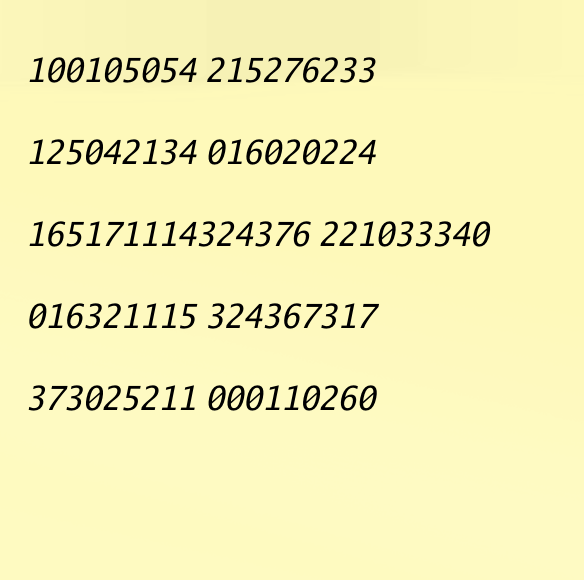
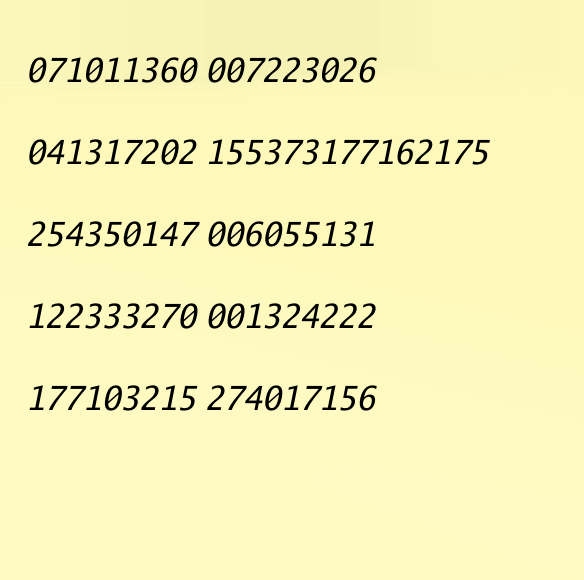
fix

diff --git a/vivant.go b/vivant.go
@@ -7,6 +7,7 @@ import (
 	"image"
 	"image/color"
 	"image/draw"
+	"math/rand"
 	"strings"
 
 	"image/png"
@@ -29,7 +30,7 @@ func (v *VivantQR) Encode() ([]string, error) {
 	HMAC.Write([]byte(vivant))
 	sig := HMAC.Sum(nil)
 	octal := bytesToOctalString(sig)
-	dummy := bytesToOctalString([]byte(genDummy(5)))
+	dummy := bytesToOctalString([]byte(string(rune(genData(5)))))
 	return separate(octal, dummy, v.cfg.Order), nil
 }
 
@@ -156,4 +157,14 @@ func separate(octal string, dummy string, order int) []string {
 		s[idx] = octal[startIndex:endIndex]
 	}
 	return s
+}
+
+func genData(num int64) int {
+	rand.New(rand.NewSource(num))
+	var res string
+	for _, v := range rand.Perm(int(num)) {
+		res += strconv.Itoa(v)
+	}
+	a, _ := strconv.Atoi(res)
+	return a
 }

diff --git a/main_test.go b/main_test.go
@@ -5,16 +5,6 @@ import (
 	"testing"
 )
 
-func Test_Decode(t *testing.T) {
-	// encodedIV := base64.StdEncoding.EncodeToString([]byte("tests"))
-	// fmt.Println(encodedIV)
-	encodedString := bytesToOctalString([]byte("encodedIV"))
-	fmt.Println("エンコードされた文字列:", encodedString)
-
-	decodedBytes, err := octalStringToBytes(encodedString)
-	if err != nil {
-		fmt.Println("デコードエラー:", err)
-		return
-	}
-	t.Log(decodedBytes)
+func Test_Gen(t *testing.T) {
+	fmt.Println(genData(32))
 }

diff --git a/config.go b/config.go
@@ -21,7 +21,7 @@ func Refresh() (*Config, error) {
 		return nil, err
 	}
 	defer f.Close()
-	if _, err := f.Write([]byte(fmt.Sprintf("ORDER=%d\nSECRET_KEY=%s", genOrder(10), genSecret(32)))); err != nil {
+	if _, err := f.Write([]byte(fmt.Sprintf("ORDER=%d\nSECRET_KEY=%d", genData(10), genData(32)))); err != nil {
 		return nil, err
 	}
 	return NewCfg()

diff --git a/README.md b/README.md
@@ -8,3 +8,5 @@
 export LIBRARY_PATH="/opt/homebrew/lib"
 export CPATH="/opt/homebrew/include"
 ```
+
+opencv. load video -> send frame -> python. recognize numeric image -> grpc -> golang
